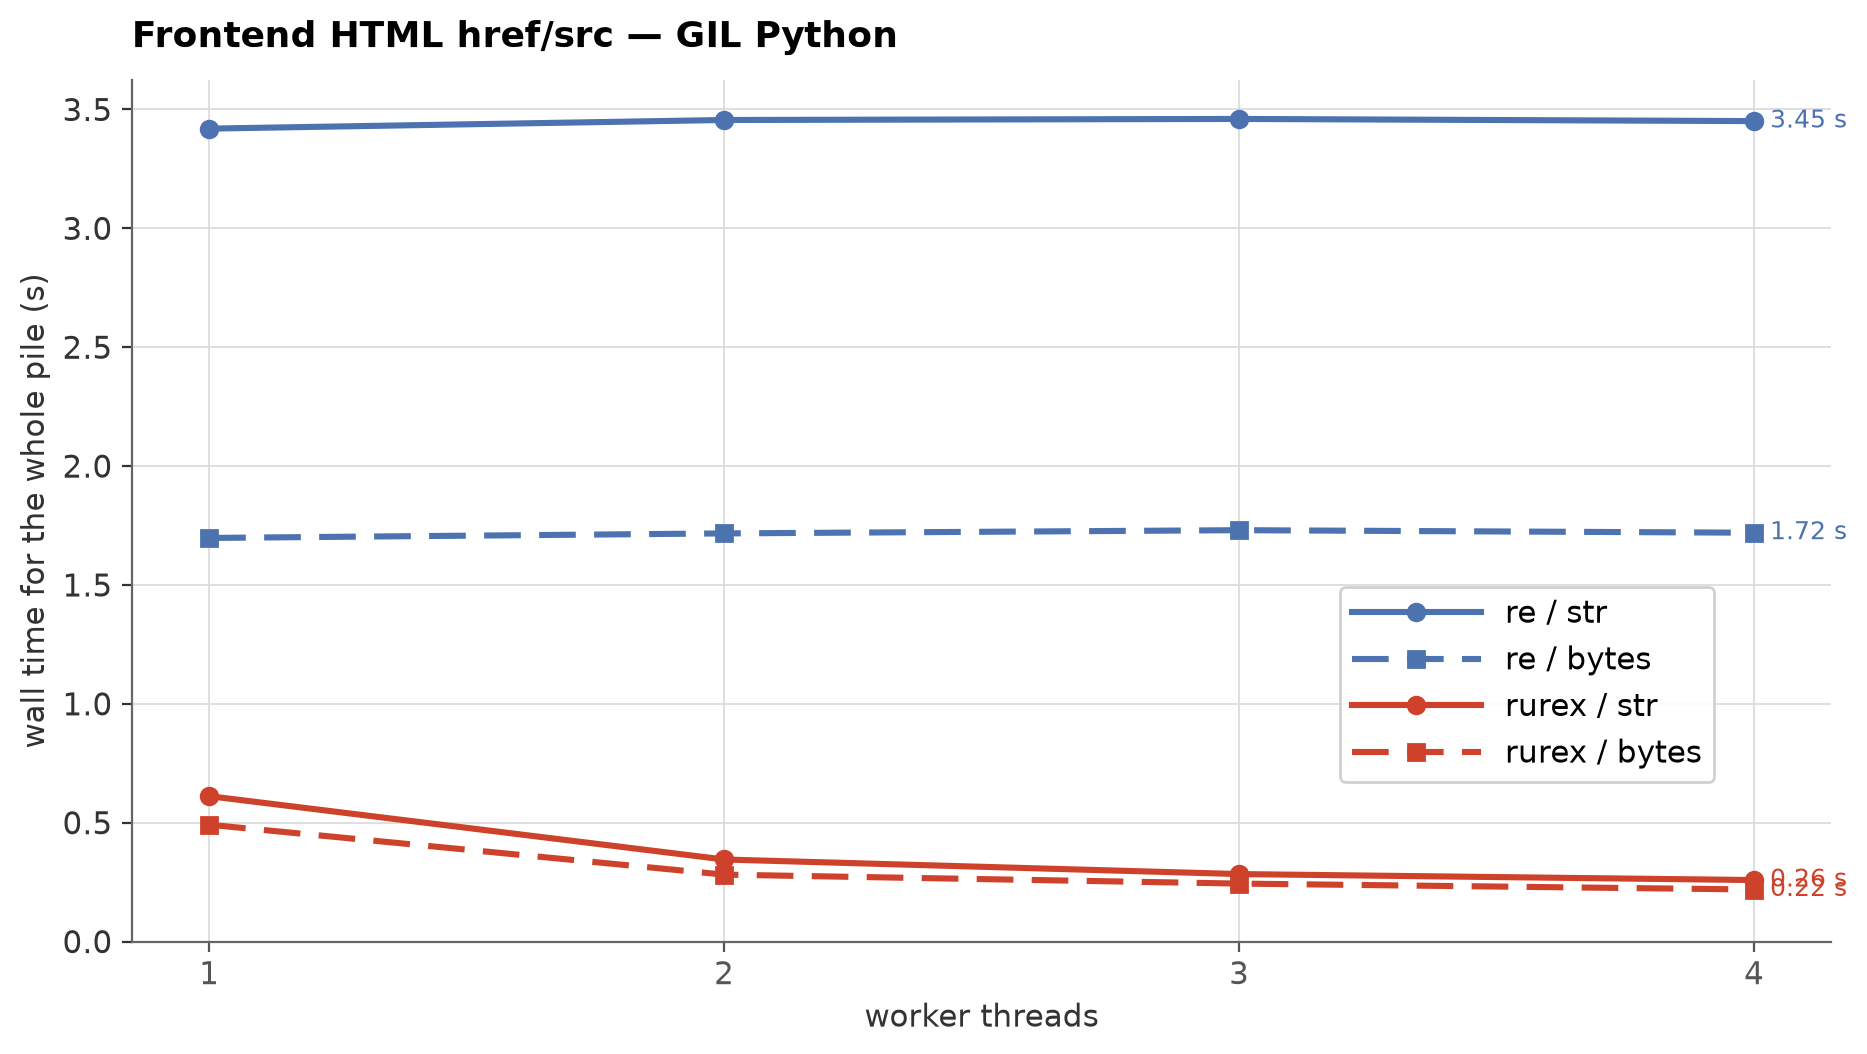
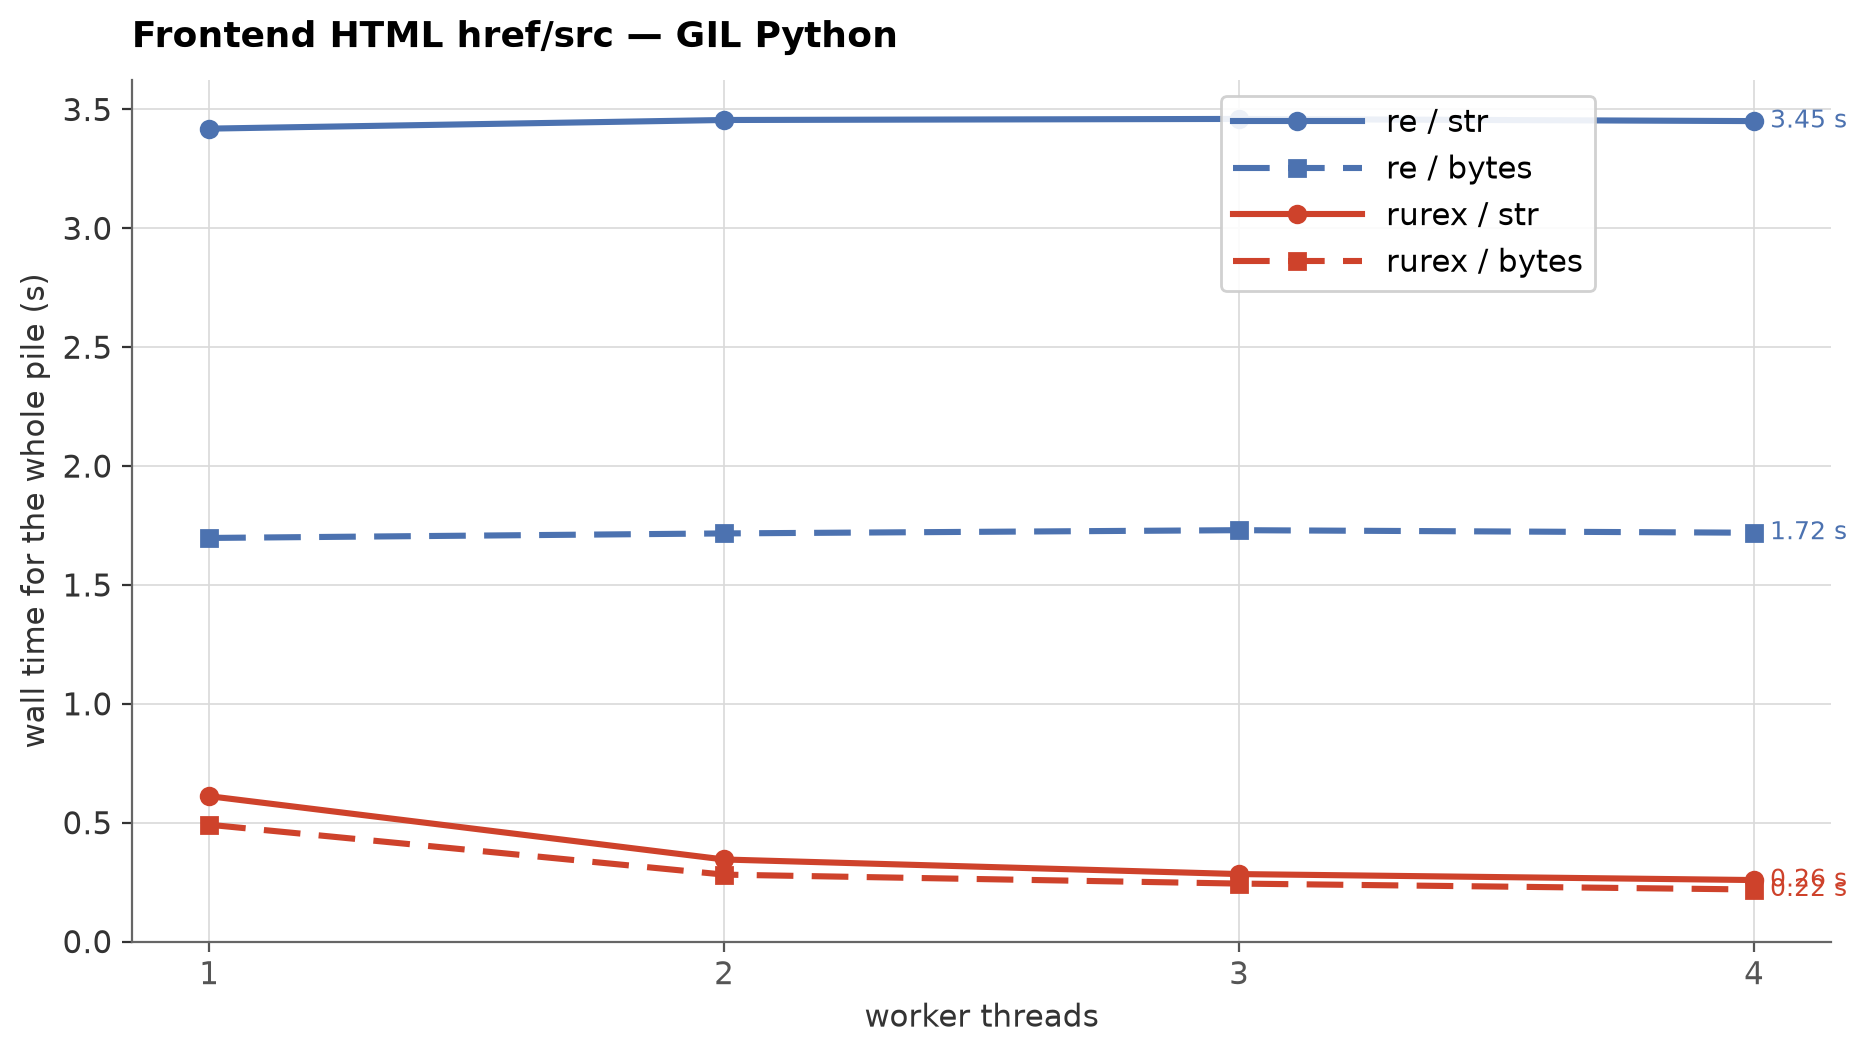
docs: pull the homepage legend in from the right edge
Only the horizontal position changes, identically on both panels:
bbox_to_anchor=(0.87, 1.0) keeps the legend in its original upper-right
corner but stops it short of the last re/str point and its value label.
Previously the GIL panel's box covered "3.45 s" and the marker.

Changed region(s): [[0.7145, 0.5465, 0.932, 0.759], [0.6524, 0.1518, 0.8698, 0.2732], [0.6524, 0.0911, 0.8698, 0.1214]]

diff --git a/benchmarks/frontend_html_charts.py b/benchmarks/frontend_html_charts.py
@@ -107,14 +107,12 @@ def chart(data, interp, out_name):
     ax.set_ylim(bottom=0)
     ax.set_ylabel("wall time for the whole pile (s)")
     ax.set_title(TITLES[interp], loc="left", fontsize=13, fontweight="bold", pad=12)
-    # On the GIL panel the upper-right corner holds the last point of the
-    # re/str line and its value label, and the 0.7-1.6 s band between the
-    # re/bytes and rurex lines is empty across the whole width: park the
-    # legend there instead of over the data.
-    anchor = (0.94, 0.43) if interp == "gil" else (1.0, 1.0)
+    # Pulled in from the right edge so it does not sit on the last
+    # point of the re/str line and its value label; same spot on both
+    # panels.
     ax.legend(
         loc="upper right",
-        bbox_to_anchor=anchor,
+        bbox_to_anchor=(0.87, 1.0),
         handlelength=4.2,
         handletextpad=0.8,
     )
